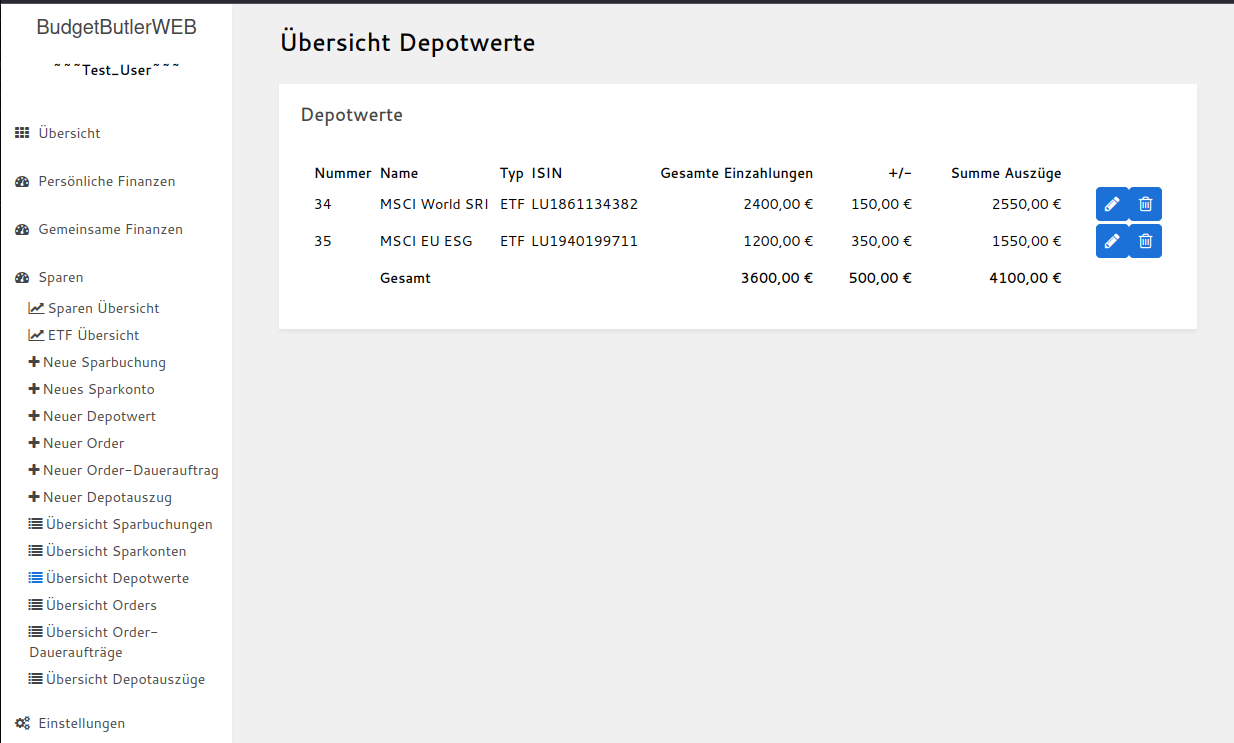
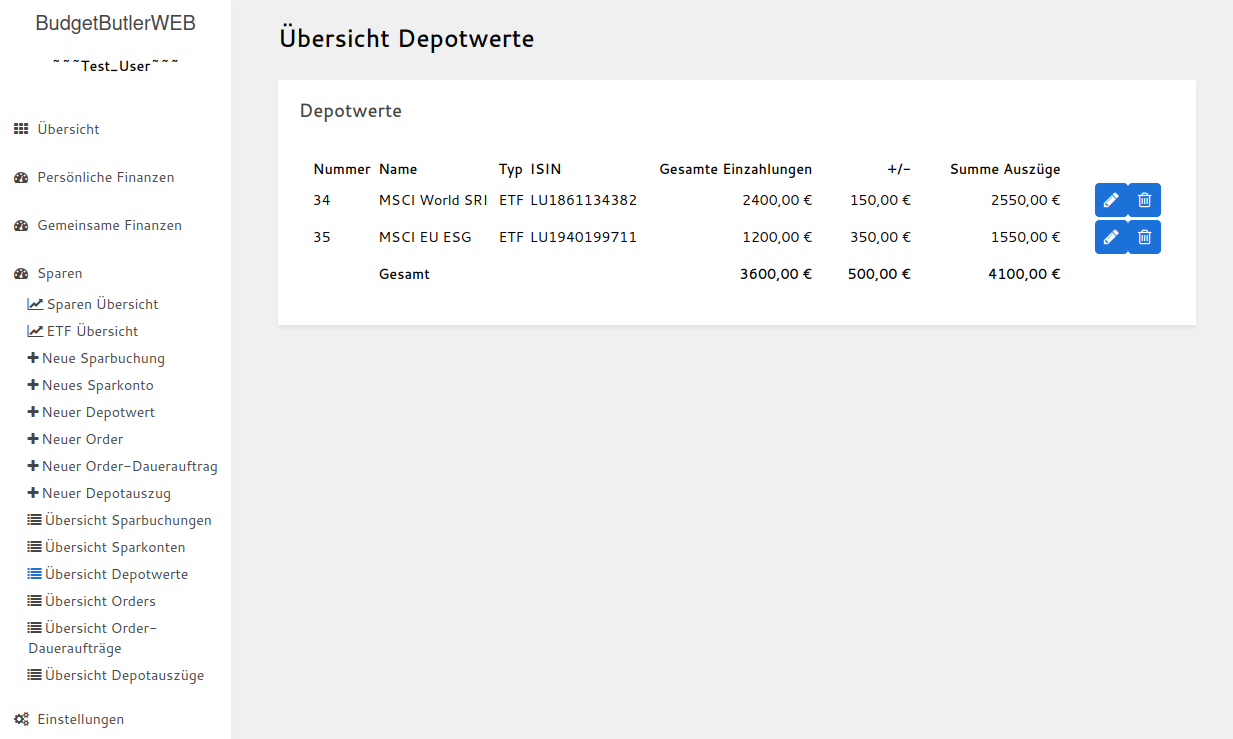
improve spacing in docs

diff --git a/docs/assets/css/style.scss b/docs/assets/css/style.scss
@@ -1,0 +1,18 @@
+---
+---
+
+@import "{{ site.theme }}";
+
+.outer, .outer > * {
+  max-width: 1100px;
+  width: 90%;
+  min-width: 400px;
+}
+
+#main_content_wrap, #header_wrap {
+  width: 100%;
+}
+
+body {
+  background: #f2f2f2;
+}

diff --git a/docs/index.md b/docs/index.md
@@ -1,3 +1,7 @@
+---
+layout: default
+---
+
 # BudgetButlerWeb
 
 ![GithubCI Build and Test](https://github.com/SebastianRzk/BudgetButlerWeb/actions/workflows/build.yml/badge.svg?branch=master)
@@ -86,29 +90,59 @@ Ein einfaches Haushaltsbuch für eine schlanke und individuelle Finanzverwaltung
 
 #### Einzelbuchungen
 
+##### Übersicht Einzelbuchungen
 ![Übersicht Einzelbuchungen](img/screenshots_desktop/uebersicht_einzelbuchungen.png)
+
+##### Daueraufträge hinzufügen
 ![Daueraufträge hinzufügen](img/screenshots_desktop/dauerauftraege_add.png)
+
+##### Übersicht Daueraufträge
 ![Übersicht Daueraufträge](img/screenshots_desktop/uebersicht_dauerauftraege.png)
+
+##### Jahresübersicht
 ![Übersicht Jahr](img/screenshots_desktop/uebersicht_jahr.png)
+
+##### Monatsübersicht
 ![Übersicht Monat](img/screenshots_desktop/uebersicht_monat.png)
 
 #### Gemeinsame Buchungen
 
+##### Gemeinsame Buchungen hinzufügen
 ![Gemeinsame Buchungen hinzufügen](img/screenshots_desktop/add_gemeinsam.png)
+
+##### Gemeinsame Buchungen abrechnen
 ![Gemeinsame Buchungen abrechnen](img/screenshots_desktop/gemeinsam_abrechnen.png)
 
 #### Sparen
 
+##### Sparen Übersicht
 ![Sparen Übersicht](img/screenshots_desktop/sparen_uebersicht.png)
+
+##### Depotwerte Übersicht
 ![Depotwerte Übersicht](img/screenshots_desktop/sparen_uebersicht_depotwerte.png)
+
+##### ETF Übersicht
 ![ETFs Übersicht](img/screenshots_desktop/sparen_uebersicht_etfs.png)
 
 ### Screenshots Begleiter Web-App
 
+#### Menu
 ![Menü](img/screenshots_mobile/menu.png)
+
+#### Schnellerfassung
 ![Erfassen](img/screenshots_mobile/erfassen.png)
+
+#### Übersicht gemeinsame Buchungen
 ![Gemeinsam](img/screenshots_mobile/gemeinsam.png)
+
+#### Übersicht gemeinsame Buchungen
 ![Einzel](img/screenshots_mobile/einzel.png)
+
+#### Dauerauftrag erfassen
 ![Erfassen Dauerauftrag](img/screenshots_mobile/erfassen_dauerauftrag.png)
+
+#### Übersicht Daueraufträge
 ![Übersicht Dauerauftrag](img/screenshots_mobile/uebersicht_dauerauftrag.png)
+
+#### Buchungen erfassen in Desktop-Ansicht
 ![Erfassen Desktop](img/screenshots_mobile/erfassen_desktop.png)

diff --git a/docs/changelog.md b/docs/changelog.md
@@ -1,3 +1,10 @@
+---
+layout: default
+---
+
+[zurück zur Übersicht](index.md)ŝ
+
+
 | Version | Datum      | Änderungen Desktop-Client                                                                                                                                                                                                                                       | Änderungen Begleiter-Web-App                                                                                                                                                                          |
 |---------|------------|-----------------------------------------------------------------------------------------------------------------------------------------------------------------------------------------------------------------------------------------------------------------|-------------------------------------------------------------------------------------------------------------------------------------------------------------------------------------------------------|
 | v4.0.5  | 2024-01-24 | Fix der Default-Selektion des Jahres in den Tabellenübersichten                                                                                                                                                                                                 |                                                                                                                                                                                                       |

diff --git a/docs/butler-offline.md b/docs/butler-offline.md
@@ -1,3 +1,7 @@
+---
+layout: default
+---
+
 # Offline Anwendung: BudgetButlerWeb
 
 ## Menu

diff --git a/docs/butler-companion.md b/docs/butler-companion.md
@@ -1,3 +1,7 @@
+---
+layout: default
+---
+
 # Begleiter Web-App
 
 ## Menu
